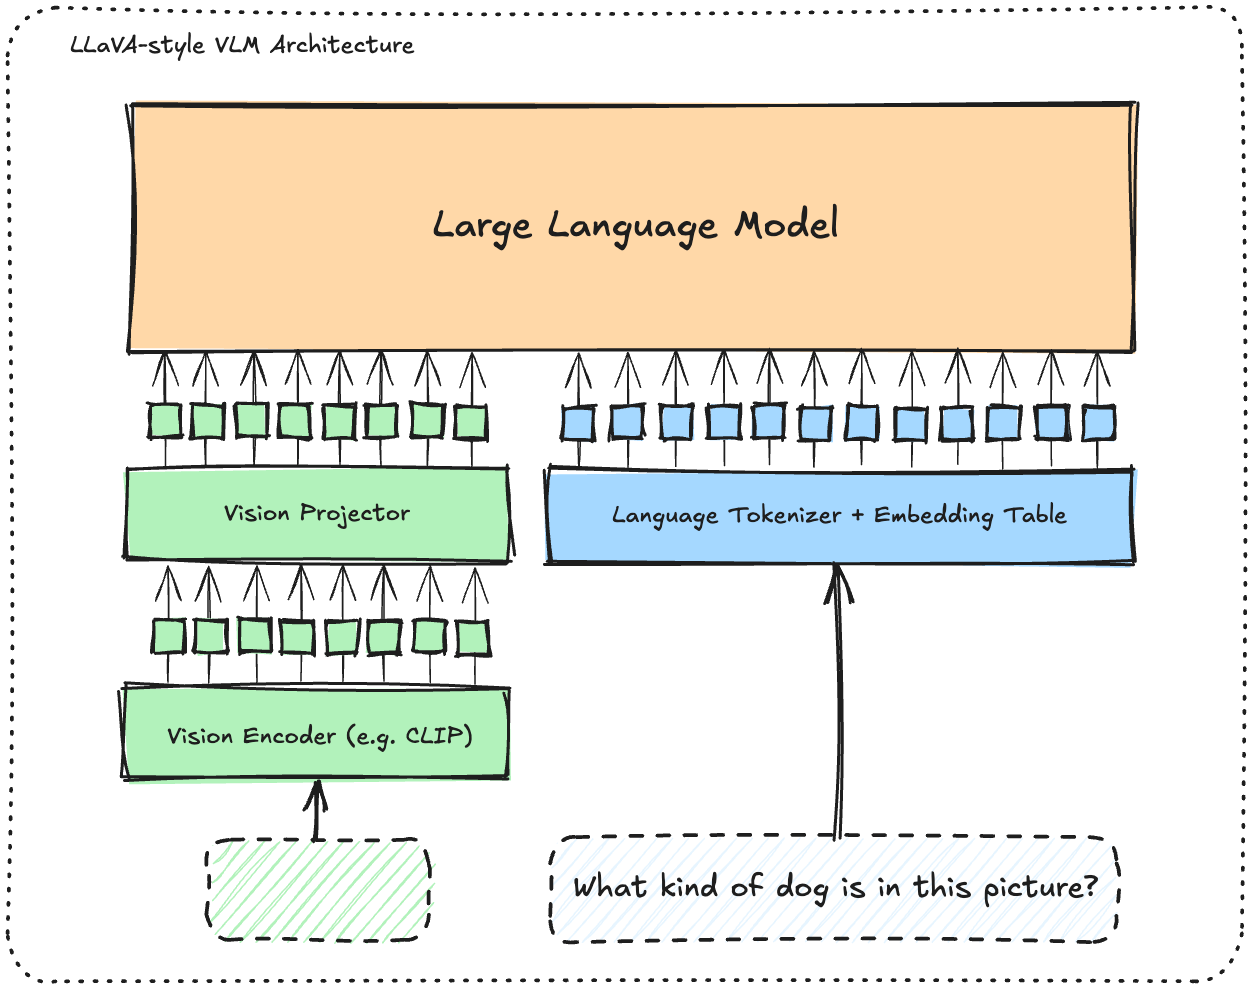
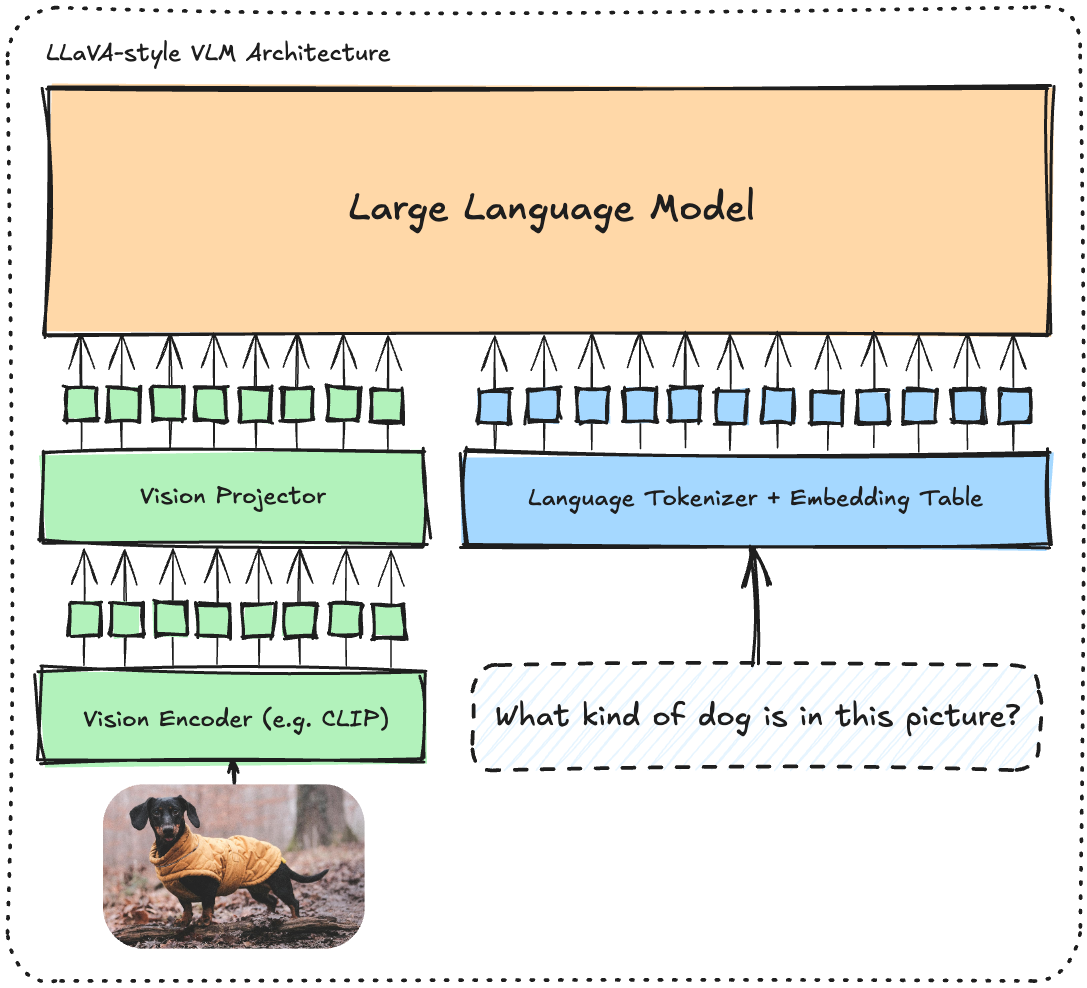
more progress

diff --git a/src/posts/2024-10-siglip/index.md b/src/posts/2024-10-siglip/index.md
@@ -6,15 +6,31 @@ blurb: Covering DPO, a recently-proposed alternative to RLHF for preference tuni
 tags: ["post", "siglip", "clip", "contrastive learning", "computer vision", "cv"]
 ---
 
-One major lesson that has come out of the last decade of machine learning research is that models and techniques that harness compute resources efficiently tend to outcompete their counterparts. Additionally, (deceptively) simple and scalable semi-supervised training processes such as next word prediction and contrastive language-image pretraining (CLIP) complement efficient models and techniques to enable processing vast quantitis of data, imbuing the resulting models with powerful and interesting properties.
+One major lesson that has come out of the last decade of machine learning research is that models and techniques that harness compute resources efficiently tend to outcompete their counterparts. Additionally, (deceptively) simple and scalable semi-supervised training processes such as next-word prediction and [contrastive language-image pretraining (CLIP)](https://arxiv.org/abs/2103.00020) complement efficient models and techniques to enable processing vast quantitis of data, imbuing the resulting models with powerful and interesting properties.
 
 When CLIP came out, it represented an advance in both of these areas. Contrastive language-image pretraining is conceptually simple and endlessly scalable due to the vast quantities of image-text pairs available on the internet. It was also formulated with compute scalability in mind.
 
-However CLIP models have recently been surplated by SigLIP (Sigmoid Loss for Language Image Pre-Training) models. SigLIP models outperform CLIP models in fair comparisons on downstream benchmarks such as ImageNet and COCO. Plus, CLIP models used to be the go-to[^vlms-with-clip] choise of vision encoder for Vision-Language Models (VLMs) but recently-published state-of-the-art VLMs have been using SigLIP instead.
+However CLIP models have recently been surplated by SigLIP (Sigmoid Loss for Language Image Pre-Training) models. SigLIP models outperform CLIP models in fair comparisons on downstream benchmarks such as ImageNet and COCO. Plus, CLIP models used to be the go-to choise of vision encoder for Vision-Language Models (VLMs)[^llava-arch] but many recently-published state-of-the-art VLMs have been using SigLIP instead.
 
-![LLaVA style VLM architecture](/assets/img/vlm-arch.png)
+[^llava-arch]: ![LLaVA style VLM architecture](/assets/img/vlm-arch.png)
 
-[^vlms-with-clip]: LLaVA, ... and ... all use CLIP as their vision encoder.
+| Model                                             | Vision Encoder | Date      |
+|:--------------------------------------------------|:--------------|:-----------|
+| [Flamingo](https://arxiv.org/abs/2204.14198)      | CLIP          | Apr 2022  |
+| [LLaVA](https://arxiv.org/abs/2304.08485)         | CLIP          | Apr 2023  |
+| [IDEFICS](https://arxiv.org/abs/2306.16527)       | CLIP          | June 2023 |
+| [Qwen-VL](https://arxiv.org/abs/2308.12966)       | CLIP          | Aug 2023  |
+| [LLaVA-1.5](https://arxiv.org/abs/2310.03744)     | CLIP          | Oct 2023  |
+| [ShareGPT4V](https://arxiv.org/abs/2311.12793)    | CLIP          | Nov 2023  |
+| [CogVLM](https://arxiv.org/abs/2311.03079)        | CLIP          | Nov 2023  |
+| [DeepSeek-VL](https://arxiv.org/abs/2403.05525)   | SigLIP + [SAM](https://arxiv.org/abs/2304.02643) + [ViTDet](https://arxiv.org/abs/2203.16527)       | Mar 2024  |
+| [IDEFICS2](https://arxiv.org/abs/2405.02246)      | SigLIP        | May 2024  |
+| [PaliGemma](https://arxiv.org/abs/2407.07726)     | SigLIP        | July 2024 |
+| [VILA2](https://arxiv.org/abs/2407.17453)         | SigLIP        | July 2024 |
+| [IDEFICS3](https://arxiv.org/abs/2408.12637)      | SigLIP        | Aug 2024  |
+| [MiniCPM-V](https://arxiv.org/abs/2408.01800)     | SigLIP        | Aug 2024  |
+| [LLaVA-OneVision](https://arxiv.org/abs/2408.03326)| SigLIP       | Aug 2024  |
+| [Qwen2-VL](https://arxiv.org/abs/2409.12191)      | CLIP (DFN)    | Sep 2024  |
 
 I love the [SigLIP paper](https://arxiv.org/pdf/2303.15343) for its clarity of explanation and of thought. In my opinion, its a better introduction to CLIP than the actual CLIP paper, and the authors do a great job of explaining the practical details of efficiently computing the SigLIP loss. This is a great paper to read if you are new to machine learning research and I highly recommend it to experienced practitioners as well.
 
@@ -27,10 +43,12 @@ CLIP's loss function is batch-level. A batch of $N$ image-text pairs is sampled,
 
 $$
 \mathcal{L}_{clip}
-=-\frac{1}{2|\mathcal{B}|}\sum^{|\mathcal{B}|}_{i=1}{\left(\log{\frac{e^{tx_iy_i}}{\sum^{|\mathcal{B}|}_{j=1}e^{tx_iy_j}}+\log{\frac{e^{tx_iy_i}}{\sum^{|\mathcal{B}|}_{j=1}e^{tx_jy_i}}}}\right)}
+=-\frac{1}{2|\mathcal{B}|}\sum^{|\mathcal{B}|}_{i=1}{\left(\log{\frac{e^{t\mathbf{x_i}\mathbf{y_i}}}{\sum^{|\mathcal{B}|}_{j=1}e^{t\mathbf{x_i}\mathbf{y_j}}}+\log{\frac{e^{t\mathbf{x_i}\mathbf{y_i}}}{\sum^{|\mathcal{B}|}_{j=1}e^{t\mathbf{x_j}\mathbf{y_i}}}}}\right)}
 $$
 
-Notice that there are two softmax functions being applied. One is the image-to-text softmax and one is the text-to-image softmax. The softmax function is applied twice to separately normalize the pairwise similarity for texts and images. $t$ (i.e. temperature) is a learnable scalar parameter. Pairwise similarities are computed via a dot product ($x_iy_j$).
+Notice that there are two softmax functions being applied. One is the image-to-text softmax and one is the text-to-image softmax. The softmax function is applied twice to separately normalize the pairwise similarity for texts and images. $t$ (i.e. temperature) is a learnable scalar parameter. Pairwise similarities are computed via a dot product[^dotproduct].
+
+[^dotproduct]: A dot product measures how similar two vectors are in direction and magnitude. Mathematically, $\mathbf{v} \cdot \mathbf{w} = |\mathbf{v}||\mathbf{w}|\cos(\theta_{vw})$, where $\theta_{vw}$ is the angle between the vectors. When vectors point in similar directions, their dot product is larger. ![Geometric interpretation of a Dot Product](/assets/img/dot-product.png)
 
 Each softmax operation is an operation across the full training batch, since computing a softmax requires computing a global normalization factor. This makes distributing this loss calculation across multiple GPUs less efficient, because the multiple cross-GPU communication operations are required for each batch.
 
@@ -45,8 +63,8 @@ SigLIP addresses these inefficiencies by switching from a global softmax-based l
 
 $$
 \mathcal{L}_{siglip}
-=-\frac{1}{|\mathcal{B}|}\sum^{|\mathcal{B}|}_{i=1}\sum^{|\mathcal{B}|}_{j=1}{\log\frac{1}{1 + e^{z_{ij}(-tx_iy_j+b)}}}
-=-\frac{1}{|\mathcal{B}|}\sum^{|\mathcal{B}|}_{i=1}\sum^{|\mathcal{B}|}_{j=1}{\log\sigma\left(-z_{ij}(tx_iy_j-b)\right)}  \\[10pt]
+=-\frac{1}{|\mathcal{B}|}\sum^{|\mathcal{B}|}_{i=1}\sum^{|\mathcal{B}|}_{j=1}{\log\frac{1}{1 + e^{z_{ij}(-t\mathbf{x_i}\mathbf{y_j}+b)}}}
+=-\frac{1}{|\mathcal{B}|}\sum^{|\mathcal{B}|}_{i=1}\sum^{|\mathcal{B}|}_{j=1}{\log\sigma\left(-z_{ij}(t\mathbf{x_i}\mathbf{y_j}-b)\right)}  \\[10pt]
 =-\frac{1}{|\mathcal{B}|}\sum^{|\mathcal{B}|}_{i=1}\sum^{|\mathcal{B}|}_{j=1}{\mathcal{L}_{ij}}
 $$
 
@@ -55,15 +73,17 @@ Where $z_{ij}$ is the label for a given image and text comparison, set to $1$ if
 As we are now in a binary-classification setting, we need to reckon with the heavy class imbalance we are now faced with. As with CLIP, within a batch, there are $N$ positive examples and $N^2-N$ negative examples. The authors note that the many negative examples dominate the loss at initialization, and they propose to compensate for this by adding a learnable bias parameter $b$. They then initialize $b=-10$ and $t=10$. If we substitue the initial values of those parameters into our loss function, we see:
 $$
 \mathcal{L}_{siglip}
-=-\frac{1}{|\mathcal{B}|}\sum^{|\mathcal{B}|}_{i=1}\sum^{|\mathcal{B}|}_{j=1}{\log\sigma\left(-z_{ij}(10x_iy_j+10)\right)}
+=-\frac{1}{|\mathcal{B}|}\sum^{|\mathcal{B}|}_{i=1}\sum^{|\mathcal{B}|}_{j=1}{\log\sigma\left(-z_{ij}(10\mathbf{x_i}\mathbf{y_j}+10)\right)}
 $$
+
+The logistic function is an S-shaped (or sigmoid) function commonly denoted using $\sigma(x)$. It frequently appears when working with probabilities because it can "squash" values in $\mathbb{R}$ (the set of all real numbers) into $(0, 1)$ (the set of probabilities values, excluding exactly 0 or 1). ![Sigmoid Function](/assets/img/sigmoid.png)
 
 ### Efficient computation of SigLIP's loss
 
 Since SigLIP's loss is example-level instead of batch-level, the loss for each pair can be computed independently.
 $$
 \mathcal{L}_{ij}
-=\log\sigma\left(-z_{ij}(tx_iy_j-b)\right)
+=\log\sigma\left(-z_{ij}(t\mathbf{x_i}\mathbf{y_j}-b)\right)
 $$
 
 We can use this fact to implement an efficient method of computing SigLIP's loss with minimal memory requirements and minimal inter-device communication.
@@ -78,15 +98,25 @@ In essence, each device begins  with an equal number of text and image examples.
 
 The per-device memory requirements here scale with the square of the local batch size ($b=\frac{|B|}{d}$). Which means that this training proceedure can be scaled to arbitrarily large batch sizes by increasing the number of devices.
 
-[^ring]: (device 1) -> (device 2); (device 2) -> (device 3); (device 3) -> (device 1)
+[^ring]: Text examples swapped along a ring. ![A ring of text transmissions](/assets/img/device-ring.png)
 
 
 ## Does SigLIP inherit CLIP's issues?
-Recently, several works have pointed out issues with the underlying vision capabilities of CLIP models.
-1. CLIP models are blind
-2. CLIP models create image- and text- embedding clouds that are non-overlapping.
+Recently, several works have pointed out issues with the underlying vision capabilities of CLIP models. For example, [Liang et al.](https://arxiv.org/abs/2203.02053) showed that the image and text embedding clouds created by CLIP models are non-overlapping.
+
+Perhaps more concerning is the fact that CLIP models are blind to certain types of visual information. For example, [Tong et al.](https://arxiv.org/abs/2401.06209) showed...
+
+<blockquote class="twitter-tweet" data-dnt="true" data-theme="light"><p lang="en" dir="ltr">Glad to see SigLIP doing well (relatively speaking) on this new benchmark! DFN by <a href="https://twitter.com/Vaishaal?ref_src=twsrc%5Etfw">@Vaishaal</a> also doing quite well. The rest seems pretty far behind, even with larger models.<br><br>Now I wonder how well CapPa will do here, given the SugarCrepe results, I think very well :) <a href="https://t.co/kELoELt3sv">https://t.co/kELoELt3sv</a> <a href="https://t.co/sVk3ukAgT2">pic.twitter.com/sVk3ukAgT2</a></p>&mdash; Lucas Beyer (bl16) (@giffmana) <a href="https://twitter.com/giffmana/status/1746867524996620363?ref_src=twsrc%5Etfw">January 15, 2024</a></blockquote> <script async src="https://platform.twitter.com/widgets.js" charset="utf-8"></script>
 
 ## Interested in learning more?
 I recommend reading the CLIP and SigLIP papers. They are both excelent.
 
 ## References
+
+1. Alec Radford, Jong Wook Kim, Chris Hallacy, Aditya Ramesh, Gabriel Goh, Sandhini Agarwal, Girish Sastry, Amanda Askell, Pamela Mishkin, Jack Clark, Gretchen Krueger, Ilya Sutskever. ["Learning Transferable Visual Models From Natural Language Supervision"](https://arxiv.org/abs/2103.00020). arXiv:2103.00020, 2021.
+
+2. Xiaohua Zhai, Basil Mustafa, Alexander Kolesnikov, Lucas Beyer. ["Sigmoid Loss for Language Image Pre-Training"](https://arxiv.org/pdf/2303.15343). arXiv:2303.15343, 2023.
+
+3. Xiaohua Liang, Haohan Wang, Jong-Hwi Yoon, Davide Mottin, Shafiq Joty. ["Mind the Gap: Understanding the Modality Gap in Multi-modal Contrastive Learning"](https://arxiv.org/abs/2203.02053). arXiv:2203.02053, 2022.
+
+4. Haotian Liu, Chunyuan Li, Qingyang Wu, Yong Jae Lee. ["Visual Instruction Tuning"](https://arxiv.org/abs/2304.08485). arXiv:2304.08485, 2023.
